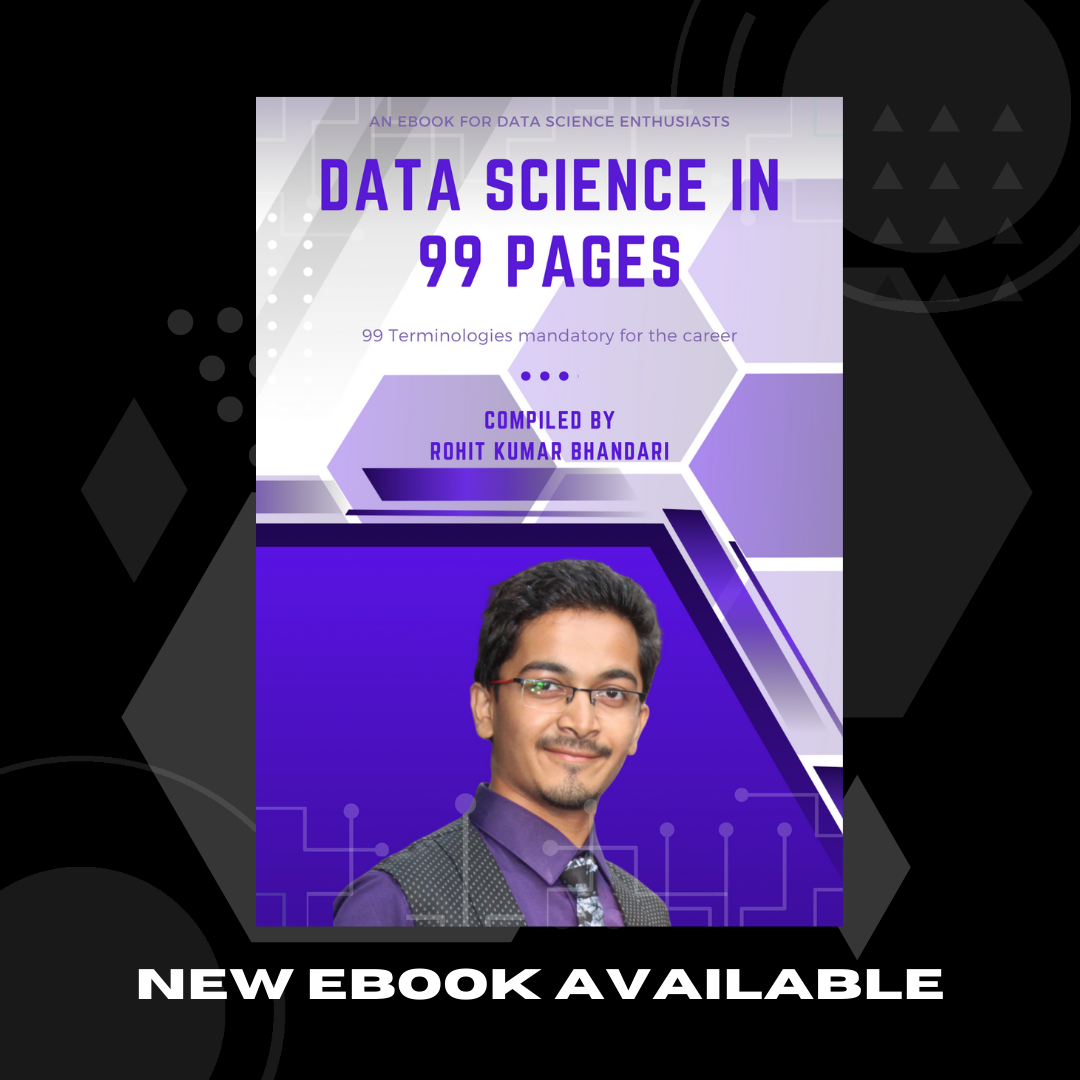
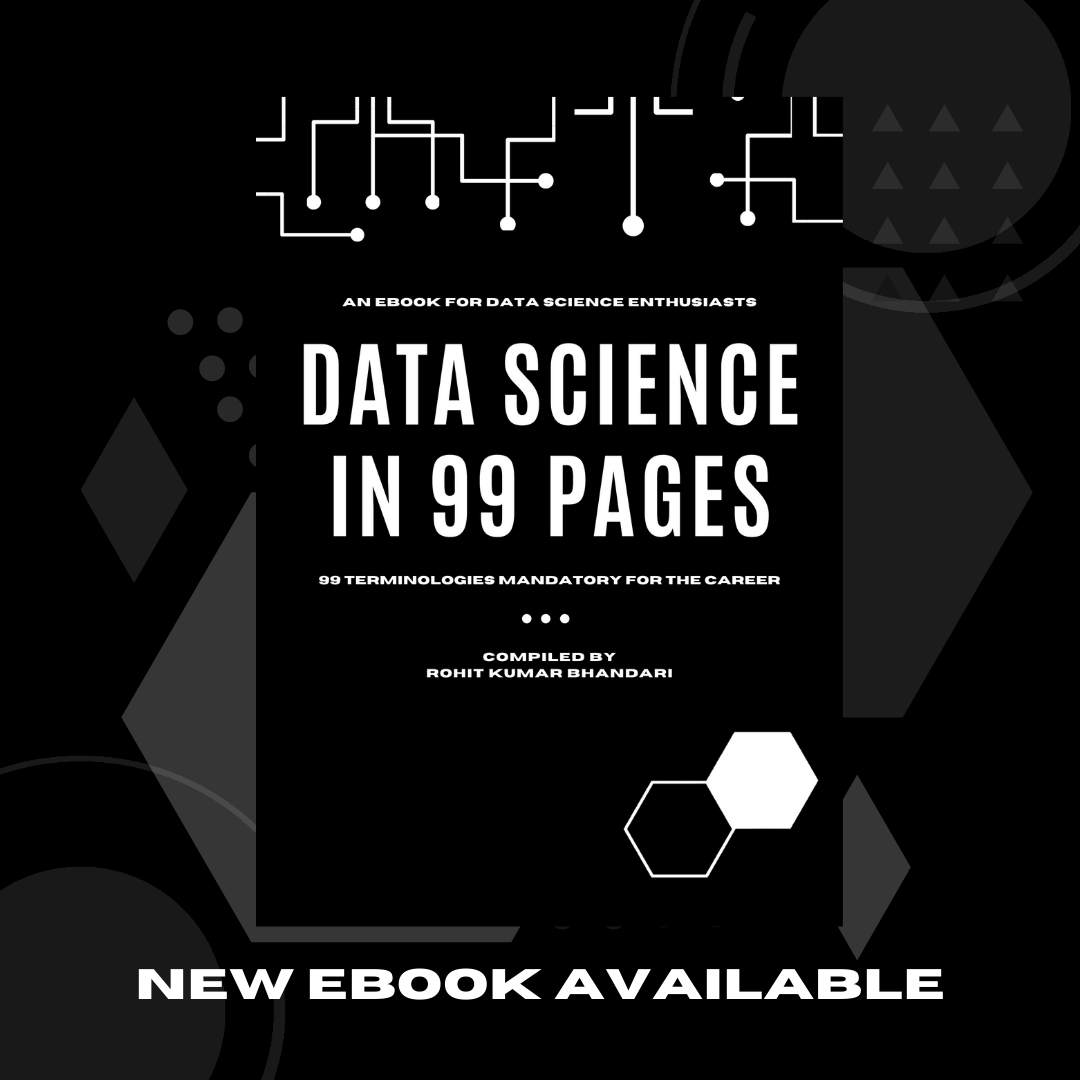
Added changes for ebook

diff --git a/index.html b/index.html
@@ -50,7 +50,7 @@
             padding: 14px 28px;
             cursor: pointer;
         }
-
+        
         .secondary_button {
             padding: 14px 28px;
             cursor: pointer;
@@ -1279,6 +1279,98 @@
                 <br />
             </section>
 
+            <!-- PRODUCTS -->
+            <section class="section-team" id="section-team">
+
+                <div class="section-seperator">
+                    <div class="container-template">
+                        <h2>Products
+                            <span class="seconday">Data Science Essentials</span>
+                        </h2>
+                    </div>
+                </div>
+                <div class="content">
+                    <div class="container-template">
+
+                        <div class="headergroup">
+                            <h2>
+                                <span class="seconday">Meet our</span>
+                                <span>Move forward in your Data Science Journey with</span>
+                            </h2>
+                        </div>
+
+
+                        <!-- Team Members List -->
+                        <ul class="team-members">
+
+                            <li>
+                                <!-- <h3 class="team-member-title">
+                                    <span class="seconday">I was are looking for a job and don't want to change that job profile. I then took a chance with the sexiest job of 21st century. A job profile that is becoming mandatory in all industries. And becoming one of the highest paid job profile nowadays. I found that it helps me to work with various domain. And also it was so easy to switch to. I want you to share this journey with me and make this world a better place. <br> <br>Data Science is the Future</span>
+                                </h3> -->
+
+
+                                <div class="content-template" style="text-align: center;">
+
+                                    <img src="images/ebook.png" style="width:100%; max-width: 440px; margin: auto;"></img>
+                                    <br>
+                                    <br>
+                                    <br>
+
+                                    <div class="team-member-text">
+                                        <h2>Data Science in 99 Pages</h2>
+                                    </div>
+
+                                    <br>
+                                    <br>
+
+                                    <div class="team-member-text content-template">
+                                        <p>An ebook for Data Science enthusiasts</p>
+                                    </div>
+                                    <br>
+
+                                    <div class="team-member-text content-template">
+                                        <p>Showcasing 99 terminologies mandatory in Data Science</p>
+                                    </div>
+
+                                    <br>
+
+                                    <div class="team-member-text content-template">
+                                        <p>A perfect handbook to get you onboard to Data Science by enlightening you with 99 terminologies that will let you increase your knowledge in Data Science. It will help you clear your Data Science Interviews flawlessly.
+                                            After reading this book you will never face any terminology that you won't understand. Even new Data Science Enthusiasts who have completed many courses gets abandoned from many terms. When you are hired these
+                                            terms will be used in your day to day life. Knowing these terms will help your recruiters to build confidence on you. A must read for one day before your interview. </p>
+                                    </div>
+                                    <br>
+
+
+                                    <div class="team-member-text content-template">
+                                        <b> Product Details </b>
+                                        <p>99 pages with new terminology on each page with clear and short explaination.</p>
+                                        <p>Product will be delivered through you email</p>
+
+                                        After the transaction open the page in Google Chrome for delivery form.
+                                    </div>
+                                    <br>
+
+                                    <div class='pm-button' style=" width: 220px; margin: auto;">
+                                        <a href="https://pmny.in/cIvhabd4PoOL" target="_blank">
+
+                                            <button style="border-radius: 25px" class="normal_button">
+                                                <img src="gifs/download.gif" alt="this slowpoke moves" style="text-align: center; margin: auto;"  width="25px" />
+                                                <br>
+                                                <h6>Buy Now</h6>
+                                            </button>
+                                            <br> Secure Transaction
+                                            <br>
+                                            <br>
+                                        </a>
+                                    </div>
+                                </div>
+                            </li>
+                        </ul>
+                    </div>
+                </div>
+            </section>
+
             <!-- ABOUT ME -->
             <section class="section-team" id="section-team">
 
@@ -1349,7 +1441,7 @@
                         <ul class="team-members">
 
                             <li>
-                                <h3 class="team-member-title">
+                                <h3 class="team-member-text">
                                     <span class="seconday">I was are looking for a job and don't want to change that job profile. I then took a chance with the sexiest job of 21st century. A job profile that is becoming mandatory in all industries. And becoming one of the highest paid job profile nowadays. I found that it helps me to work with various domain. And also it was so easy to switch to. I want you to share this journey with me and make this world a better place. <br> <br>Data Science is the Future</span>
                                 </h3>
 
@@ -1363,67 +1455,7 @@
                 </div>
             </section>
 
-            <!-- PRODUCTS -->
-            <section class="section-team" id="section-team">
 
-                <div class="section-seperator">
-                    <div class="container-template">
-                        <h2>Products
-                            <span class="seconday">Data Science Essentials</span>
-                        </h2>
-                    </div>
-                </div> 
-                <div class="content">
-                    <div class="container-template">
-                        
-						<!-- <div class="headergroup">
-							<h2>
-								<span class="seconday">Meet our</span>
-								 <span>Move forward in your Data Science Journey</span>
-                                
-
-							</h2>
-						</div>
-                        -->
-
-
-                        <!-- Team Members List -->
-                        <ul class="team-members">
-
-                            <li>
-                                <h3 class="team-member-title">
-                                    <!-- 
-                                        <span class="seconday">I was are looking for a job and don't want to change that job profile. I then took a chance with the sexiest job of 21st century. A job profile that is becoming mandatory in all industries. And becoming one of the highest paid job profile nowadays. I found that it helps me to work with various domain. And also it was so easy to switch to. I want you to share this journey with me and make this world a better place. <br> <br>Data Science is the Future</span>
-                                    -->
-                                </h3> 
-
-                                <div class="team-member-text content-template">
-                                      
-                                            <p>You can move forward in your Data Science Journey with the help of these products</p> 
-                                        
-                                </div>
-
-                                <br>
-                                <br>
-
-                                <div class="content-template" style="text-align: center;">
-
-                                    
-                                    <div class='pm-button' style=" width: 220px; margin: auto;">
-                                        <a href="products.html" target="_blank">
-                                            
-                                            <button style="border-radius: 25px" class="normal_button">
-                                                <h6>See All Products</h6>
-                                            </button>
-                                            <br>
-                                        </a>
-                                    </div>
-                                </div>
-                            </li>
-                        </ul>
-                    </div>
-                </div>
-            </section>
 
 
 
@@ -1448,10 +1480,10 @@
 
                                 <div class="content-template" style="text-align: center;">
 
-                                    
+
                                     <div class='pm-button' style=" width: 220px; margin: auto;">
                                         <a href="more.html" target="_blank">
-                                            
+
                                             <button class="normal_button">
                                                 <h6>More</h6>
                                             </button>
